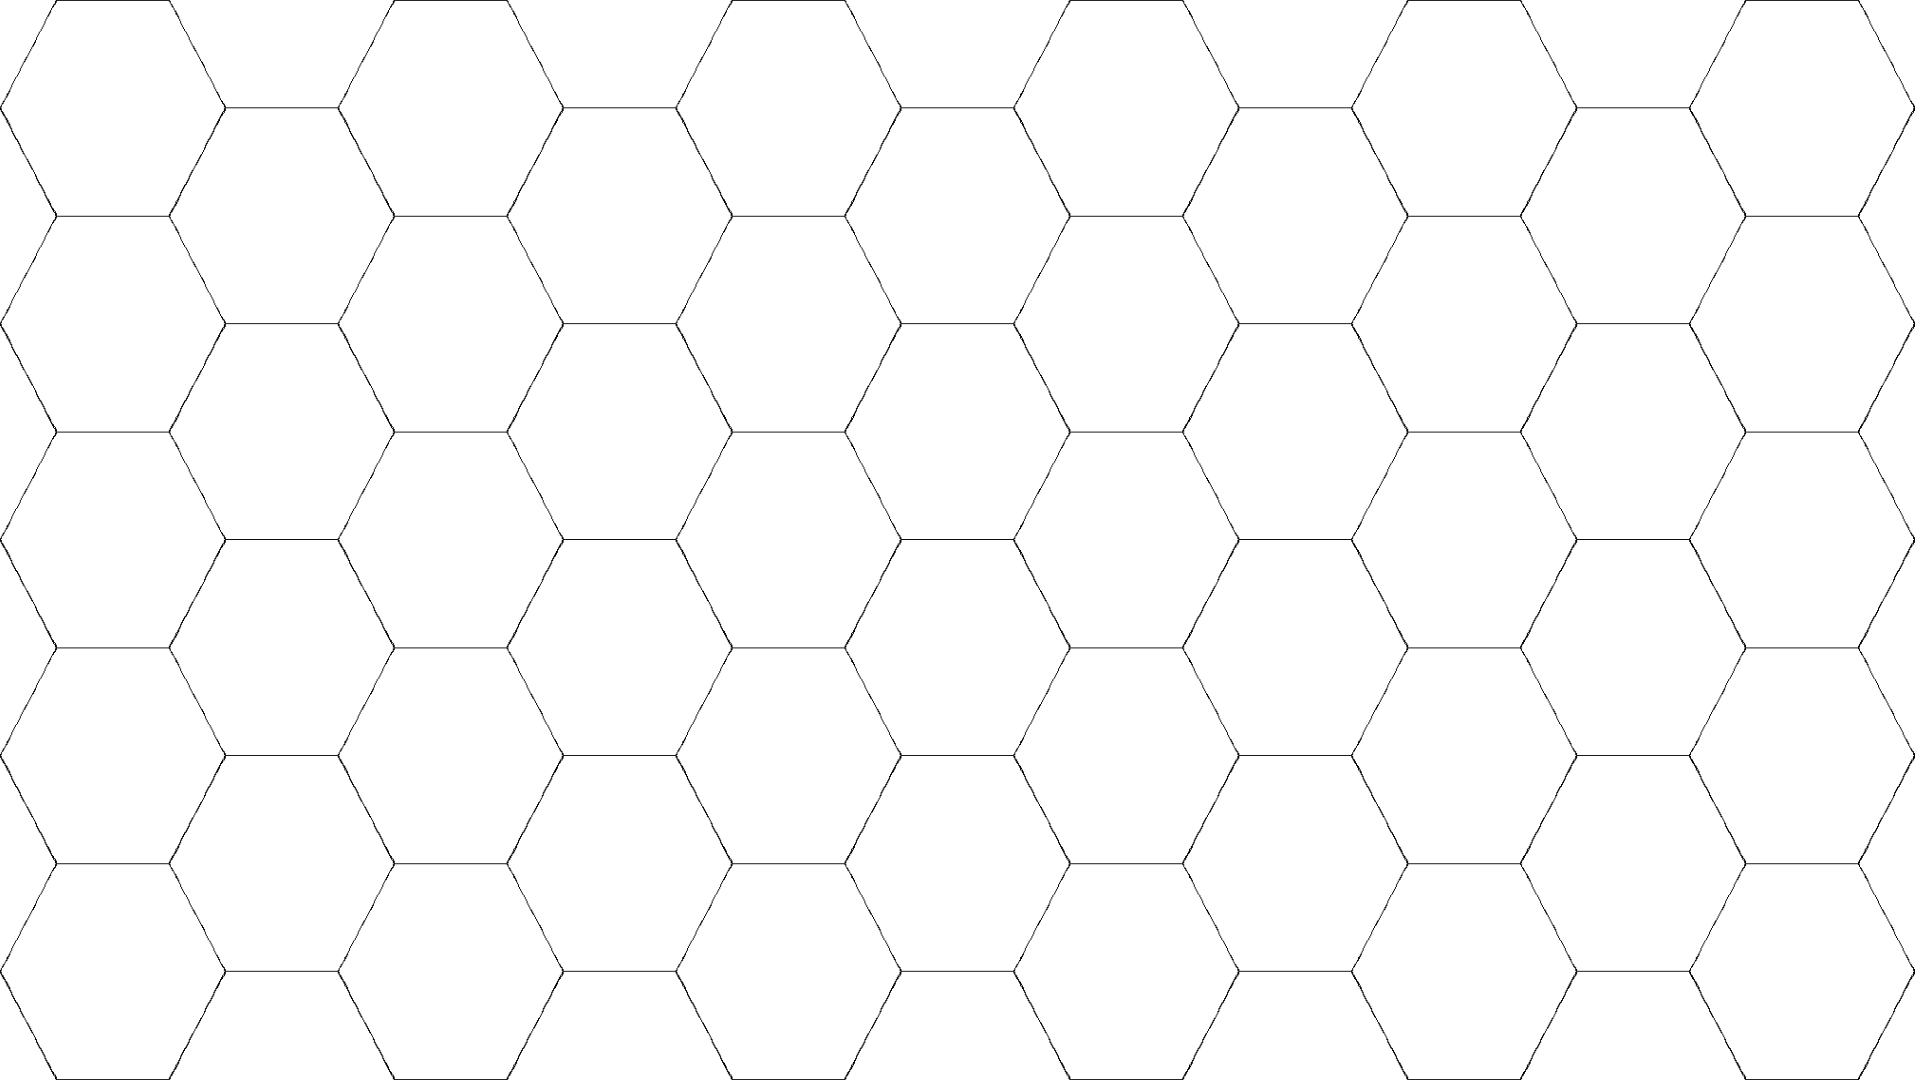
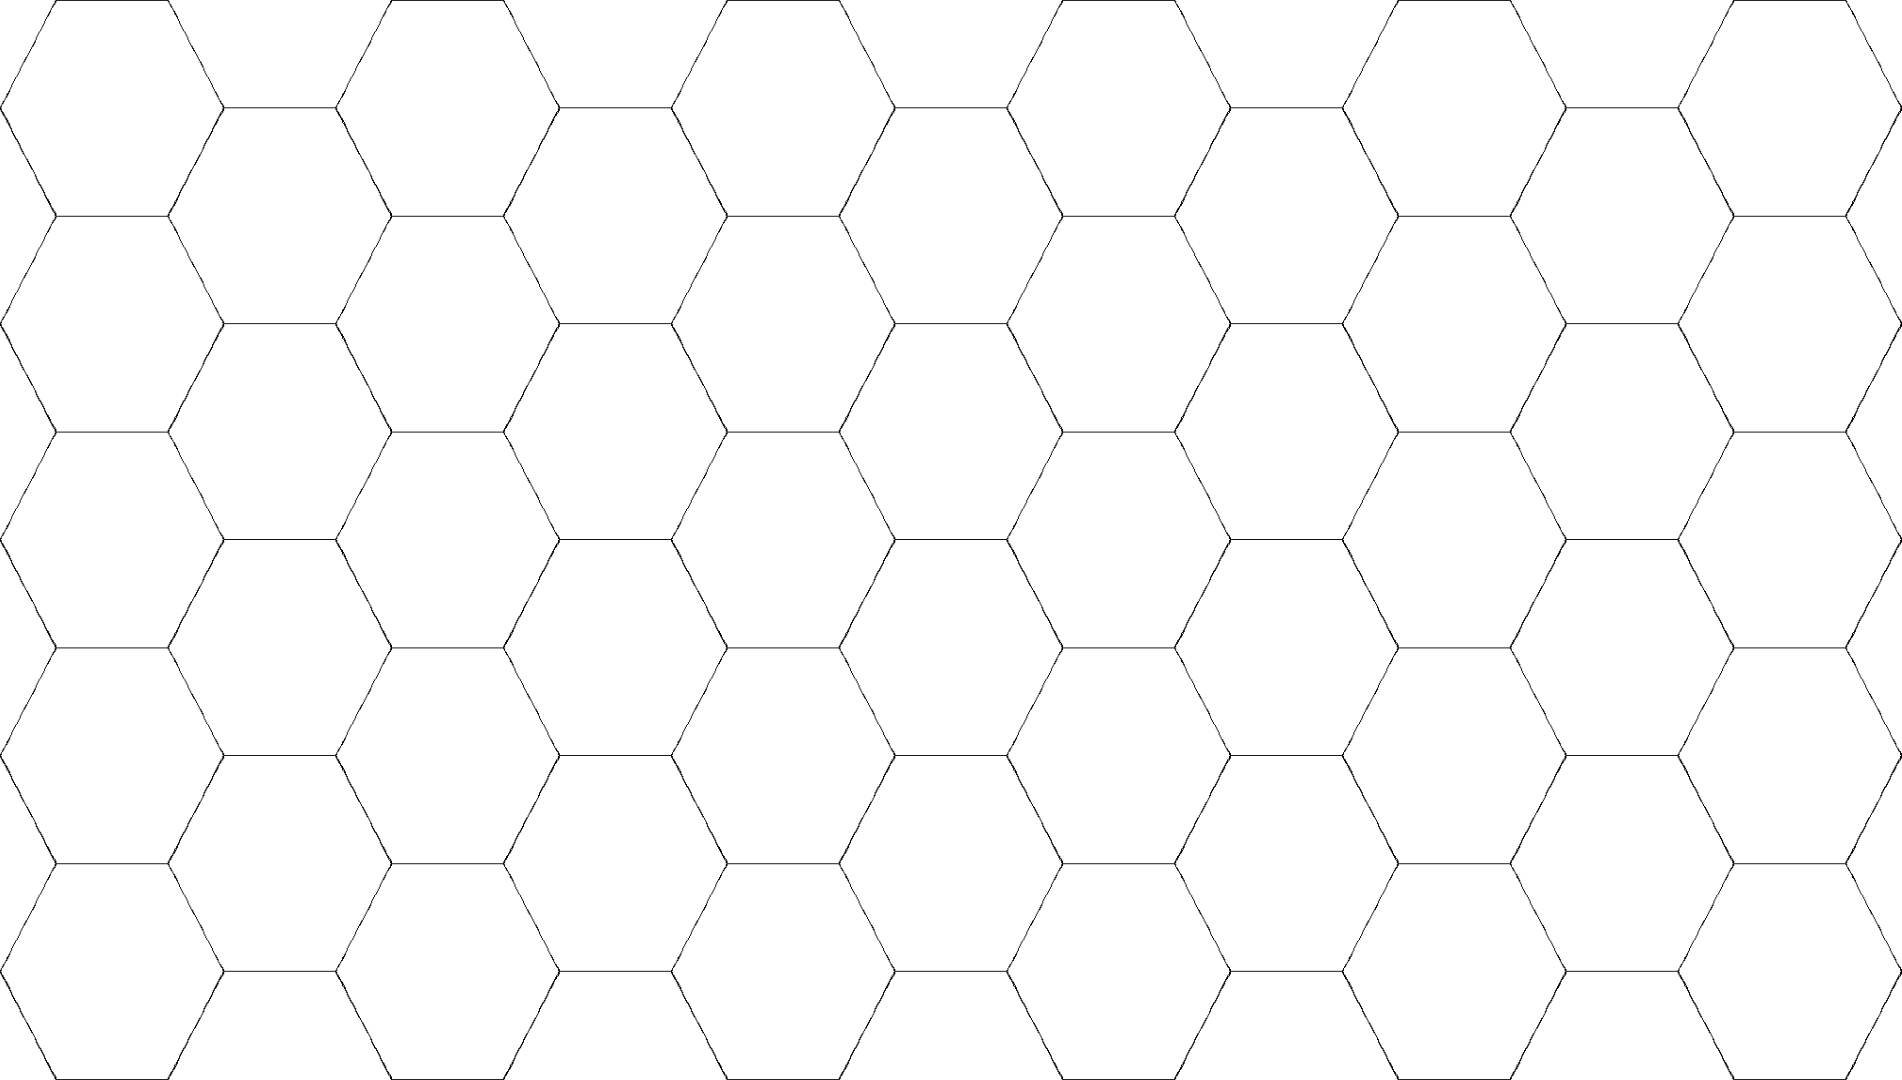
Add files via upload

diff --git a/circles.py b/circles.py
@@ -2,17 +2,16 @@
 #pygame_sdl2.import_as_pygame()
 
 import pygame, os
-
-web_list = [(0,0),(117.5,108),(117.5,108+216),(117.5,108+216*2),(117.5,108+216*3),(117.5,108+216*4),(282,216),(282,216*2),(282,216*3),(282,216*4),(457.5,108),(457.5,108+216),
-(457.5,108+216*2),(457.5,108+216*3),(457.5,108+216*4),(622,216),(622,216*2),(622,216*3),(622,216*4),
-(797.5,108),(797.5,108+216),
-(797.5,108+216*2),(797.5,108+216*3),(797.5,108+216*4),(962,216),(962,216*2),(962,216*3),(962,216*4),
-(1137.5,108),(1137.5,108+216),
-(1137.5,108+216*2),(1137.5,108+216*3),(1137.5,108+216*4),(1302,216),(1302,216*2),(1302,216*3),(1302,216*4),
-(1477.5,108),(1477.5,108+216),
-(1477.5,108+216*2),(1477.5,108+216*3),(1477.5,108+216*4),(1642,216),(1642,216*2),(1642,216*3),(1642,216*4),
-(1817.5,108),(1817.5,108+216),
-(1817.5,108+216*2),(1817.5,108+216*3),(1817.5,108+216*4)
+web_list = [(112,108),(112,108+216),(112,108+216*2),(112,108+216*3),(112,108+216*4),(280,216),(280,216*2),(280,216*3),(280,216*4),(112+168*2,108),(112+168*2,108+216),
+(112+168*2,108+216*2),(112+168*2,108+216*3),(112+168*2,108+216*4),(112+168*3,216),(112+168*3,216*2),(112+168*3,216*3),(112+168*3,216*4),
+(112+168*4,108),(112+168*4,108+216),
+(112+168*4,108+216*2),(112+168*4,108+216*3),(112+168*4,108+216*4),(112+168*5,216),(112+168*5,216*2),(112+168*5,216*3),(112+168*5,216*4),
+(112+168*6,108),(112+168*6,108+216),
+(112+168*6,108+216*2),(112+168*6,108+216*3),(112+168*6,108+216*4),(112+168*7,216),(112+168*7,216*2),(112+168*7,216*3),(112+168*7,216*4),
+(112+168*8,108),(112+168*8,108+216),
+(112+168*8,108+216*2),(112+168*8,108+216*3),(112+168*8,108+216*4),(112+168*9,216),(112+168*9,216*2),(112+168*9,216*3),(112+168*9,216*4),
+(112+168*10,108),(112+168*10,108+216),
+(112+168*10,108+216*2),(112+168*10,108+216*3),(112+168*10,108+216*4)
 
 
 ]

diff --git a/main.py b/main.py
@@ -36,8 +36,9 @@ def main():
     while True:
 
         if not sleeping:
+            screen.fill((GREEN))
 
-            while clicked:
+            if clicked:
 
                 screen.fill((GREEN))
                 screen.blit(web, (0, 0))
@@ -56,17 +57,14 @@ def main():
                 for ev in pygame.event.get():
 
                     if ev.type == pygame.MOUSEBUTTONUP:
-
                         clicked = False
-                        screen.fill((GREEN))
-                        screen.blit(web, (0, 0))
-                        screen.blit(circle,(circleX, circleY))
+
+            screen.blit(web, (0, 0))
+            screen.blit(circle,(circleX, circleY))
 
         for ev in pygame.event.get():
 
             if ev.type == pygame.QUIT:
-                pygame.quit()
-
                 break
 
             elif ev.type == pygame.MOUSEBUTTONDOWN:
